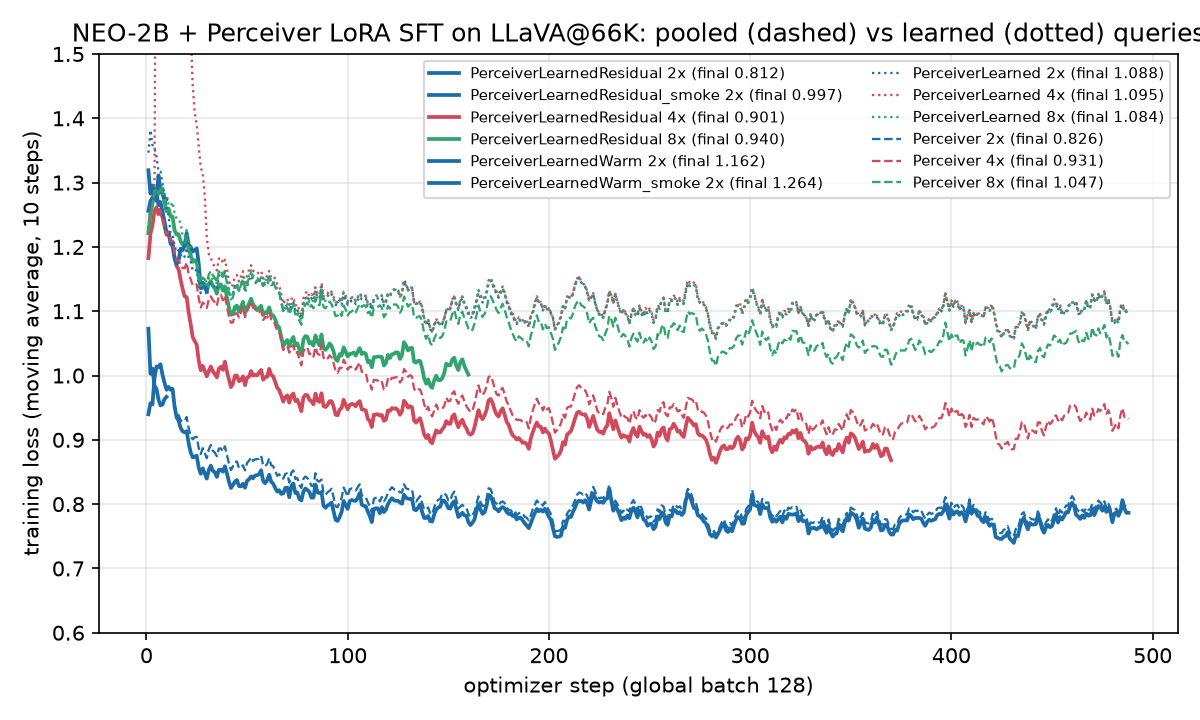
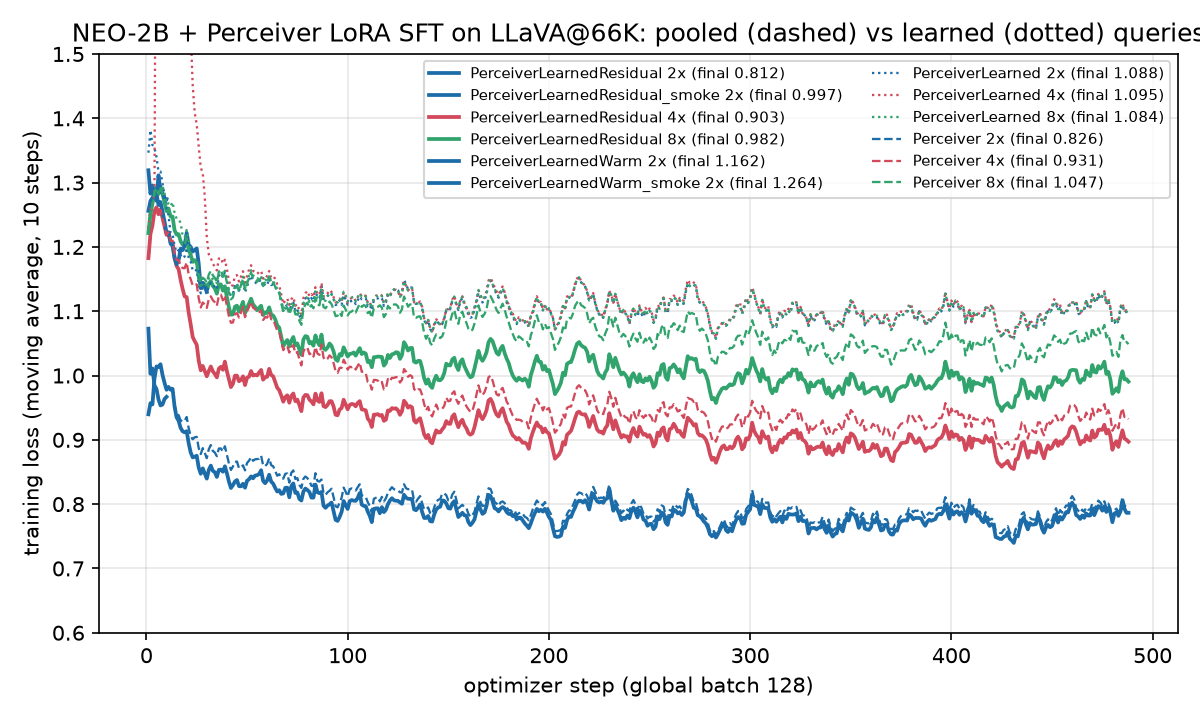
perceiver-learned: e004 DONE (4x row 66.92/1408/44.00/52.03/16.77/16.23/3.6/22.36, +2.3 MMBench +2.0 DocVQA over pooled, loss -0.043 paired); e006 training done (MA-10 0.9905, -0.057 vs pooled 8x), eval pending; e009 planned = pooled at comp lr 1e-3 4x (PerceiverLr1e3 run name + config key); figure 

diff --git a/VLMEvalKit/vlmeval/config.py b/VLMEvalKit/vlmeval/config.py
@@ -2397,7 +2397,8 @@ neo_series.update({
         perceiver_queries=queries,
     )
     for name, queries in (("PerceiverLearnedResidual", "learned_residual"),
-                          ("PerceiverLearnedWarm", "learned"))  # paper-faithful module, warm-started (INIT_FROM)
+                          ("PerceiverLearnedWarm", "learned"),  # paper-faithful module, warm-started (INIT_FROM)
+                          ("PerceiverLr1e3", "pooled"))  # pooled queries, compressor lr 1e-3 (lr-only control, e009)
     for r in (2, 4, 8)
 })
 

diff --git a/research/experiments/perceiver-learned/RESULTS.md b/research/experiments/perceiver-learned/RESULTS.md
@@ -1,14 +1,15 @@
 # Results: perceiver-learned
 
-Generated by research-results from 8 records. Do not edit by hand.
+Generated by research-results from 9 records. Do not edit by hand.
 
-| id | batch | parent | status | sha | gpu_hours | loss_learned_trained | loss_learned_zeros | loss_learned_noise | loss_pooled_trained | loss_pooled_zeros | loss_base_fixed2x | loss_base_fixed2x_zeros | loss_base_learned_init | loss_base_none | learned_output_pairwise_cosine | learned_init_output_pairwise_cosine | learned_attn_entropy_over_logN | pooled_output_pairwise_cosine | pooled_attn_entropy_over_logN | learned_latents_rms_after_training | smoke_loss_steps1to5_mean | smoke_loss_max_steps1to16 | smoke_sec_per_step | resume_step11_loss_delta | final_loss_ma10 | final_loss_ma50 | pooled2x_final_loss_ma10 | train_sec_per_step | train_hours | mmbench | docvqa | pooled2x_mmbench | pooled2x_docvqa | gate_passed | probe_residual_trained | probe_residual_no_latents | probe_residual_fixed | probe_residual_zeros | probe_pooled_trained | probe_delta_trained_minus_no_latents | probe_delta_trained_minus_fixed | probe_delta_trained_minus_pooled | latent_term_rms_over_pooled_query_rms | latents_rms | attn_gate_tanh | mlp_gate_tanh | residual_attn_entropy_over_logN | residual_attn_max_weight | residual_output_cosine_to_fixed_pooling | residual_output_rel_rms_change_from_fixed_pooling | mlp_branch_rms_unit_input | implied_native_token_rms | mme | mmmu | rwqa | textvqa | ocrbench | chartqa | pooled2x_mme | pooled2x_mmmu | pooled2x_rwqa | pooled2x_textvqa | pooled2x_ocrbench | pooled2x_chartqa | warm_native_rms | warm_mean_grid_rms_raw | warm_mean_grid_spatial_dev_rms | warm_scale | warm_n_images | smoke_loss_steps6to10_mean | smoke_loss_steps11to15_mean | smoke_loss_max_steps1to15 | smoke_steps_done | resid_smoke_steps11to15_mean | collapsed2x_steps11to15_mean | chain_submitted | steps_done | sec_per_step | loss_steps1to5_mean | loss_steps6to10_mean | loss_steps11to24_mean | loss_steps25to37_mean | loss_steps1to39_mean | collapsed2x_steps25to37_mean | pooled2x_steps25to37_mean | resid2x_steps25to37_mean | paired_vs_collapsed_steps25to37 | paired_vs_collapsed_sd | paired_vs_pooled_steps25to37 | o_proj_weight_rms_step30 | o_proj_weight_rms_pooled_trained | mlp2_weight_rms_step30 | mlp2_weight_rms_pooled_trained | latents_delta_rms_step30 | loss_warm_trained | loss_warm_zeros | loss_warm_noise | loss_warm_init_trained | paired_warm_minus_zeros | paired_warm_minus_noise | paired_warm_minus_learned | paired_warm_minus_warm_init | warm30_attn_entropy_over_logN | warm30_attn_max_weight | warm30_output_pairwise_cosine | warm30_query_pairwise_cosine | warm30_output_cosine_to_fixed_pooling | warm30_output_rms_over_native_rms | warm_init_attn_entropy_over_logN | warm_init_attn_max_weight | warm_init_output_pairwise_cosine | warm_init_output_cosine_to_fixed_pooling | hypothesis |
-|---|---|---|---|---|---|---|---|---|---|---|---|---|---|---|---|---|---|---|---|---|---|---|---|---|---|---|---|---|---|---|---|---|---|---|---|---|---|---|---|---|---|---|---|---|---|---|---|---|---|---|---|---|---|---|---|---|---|---|---|---|---|---|---|---|---|---|---|---|---|---|---|---|---|---|---|---|---|---|---|---|---|---|---|---|---|---|---|---|---|---|---|---|---|---|---|---|---|---|---|---|---|---|---|---|---|---|---|---|---|---|---|---|---|
-| e001 | b001 |  | done | 94091f4 | 0.1 | 0.9583 | 1.224 | 1.025 | 0.6443 | 1.341 | 0.8225 | 1.431 | 1.22 | 0.7184 | 0.9999 | 0.9953 | 0.9902 | 0.69 | 0.957 | 0.02 |  |  |  |  |  |  |  |  |  |  |  |  |  |  |  |  |  |  |  |  |  |  |  |  |  |  |  |  |  |  |  |  |  |  |  |  |  |  |  |  |  |  |  |  |  |  |  |  |  |  |  |  |  |  |  |  |  |  |  |  |  |  |  |  |  |  |  |  |  |  |  |  |  |  |  |  |  |  |  |  |  |  |  |  |  |  |  |  |  |  |  |  | Tests cause (a) of the direction doc (signal, not optimisation): the LLM under the PerceiverLearned-2x LoRA has |
-| e002 | b002 | e001 | done | 43311d8 | 14.98 |  |  |  |  |  |  |  |  |  |  |  |  |  |  |  | 0.979 | 1.094 | 89 | 0 | 0.7865 | 0.7835 | 0.7948 | 86.9 | 12 | 73.37 | 40 | 74.31 | 37.33 | 1 |  |  |  |  |  |  |  |  |  |  |  |  |  |  |  |  |  |  |  |  |  |  |  |  |  |  |  |  |  |  |  |  |  |  |  |  |  |  |  |  |  |  |  |  |  |  |  |  |  |  |  |  |  |  |  |  |  |  |  |  |  |  |  |  |  |  |  |  |  |  |  |  |  |  |  |  |  |  | Tests causes (a)+(b) together (backlog item 2): a Perceiver whose learned latent queries are a zero-initialised |
-| e003 | b003 | e002 | done | 12a1540 | 2.44 |  |  |  |  |  |  |  |  |  |  |  |  |  |  |  |  |  |  |  |  |  |  |  |  | 73.37 | 40 |  |  |  | 0.635 | 0.6361 | 0.6661 | 1.332 | 0.6443 | -0.001 | -0.0311 | -0.0093 | 0.0023 | 0.0129 | 0.0001 | 0.01 | 0.0255 | 0.928 | 0.946 | 0.33 | 19.4 | 4.66 | 1527 | 47 | 59.22 | 33.42 | 20.7 | 40.24 | 1524 | 46.89 | 57.65 | 32.38 | 20.8 | 40.12 |  |  |  |  |  |  |  |  |  |  |  |  |  |  |  |  |  |  |  |  |  |  |  |  |  |  |  |  |  |  |  |  |  |  |  |  |  |  |  |  |  |  |  |  |  |  |  |  | Follow-up to e002 (cause (b) fixed by construction, gate passed). Two questions. (1) Mechanism: the latents of the |
-| e004 | b004 | e002 | submitted | 12a1540 |  |  |  |  |  |  |  |  |  |  |  |  |  |  |  |  |  |  |  |  |  |  |  |  |  |  |  |  |  |  |  |  |  |  |  |  |  |  |  |  |  |  |  |  |  |  |  |  |  |  |  |  |  |  |  |  |  |  |  |  |  |  |  |  |  |  |  |  |  |  |  |  |  |  |  |  |  |  |  |  |  |  |  |  |  |  |  |  |  |  |  |  |  |  |  |  |  |  |  |  |  |  |  |  |  |  |  |  | Backlog item 4, first half: the fix of e002 (pooled-anchored learned queries, init = fixed pooling) carries to 4x, |
-| e005 | b005 | e003 | done | 99d7de0 | 0.47 |  |  |  |  |  |  |  |  |  |  |  |  |  |  |  | 1.272 |  | 89.5 |  |  |  |  |  |  |  |  |  |  |  |  |  |  |  |  |  |  |  |  |  |  |  |  |  |  |  |  |  |  |  |  |  |  |  |  |  |  |  |  |  | 4.521 | 2.941 | 0.5304 | 1.537 | 256 | 1.277 | 1.236 | 1.509 | 15 | 0.93 | 1.202 | 0 |  |  |  |  |  |  |  |  |  |  |  |  |  |  |  |  |  |  |  |  |  |  |  |  |  |  |  |  |  |  |  |  |  |  |  |  | Backlog item 3, tests cause (b) in isolation on the paper-faithful architecture: the `learned` Perceiver (image-independ |
-| e006 | b006 | e004 | submitted | 503ea57 |  |  |  |  |  |  |  |  |  |  |  |  |  |  |  |  |  |  |  |  |  |  |  |  |  |  |  |  |  |  |  |  |  |  |  |  |  |  |  |  |  |  |  |  |  |  |  |  |  |  |  |  |  |  |  |  |  |  |  |  |  |  |  |  |  |  |  |  |  |  |  |  |  |  |  |  |  |  |  |  |  |  |  |  |  |  |  |  |  |  |  |  |  |  |  |  |  |  |  |  |  |  |  |  |  |  |  |  | Backlog item 4, second half: the e002 fix (pooled-anchored learned queries, init = fixed pooling, compressor lr 1e-3) |
-| e007 | b007 | e005 | done | 503ea57 | 1 |  |  |  |  |  |  |  |  |  |  |  |  |  |  |  |  |  |  |  |  |  |  |  |  |  |  |  |  |  |  |  |  |  |  |  |  |  |  | 4.521 |  |  |  |  |  |  |  |  |  |  |  |  |  |  |  |  |  |  |  |  |  |  |  |  |  |  |  |  |  |  |  | 0 | 39 | 87.5 | 1.282 | 1.161 | 1.192 | 1.143 | 1.182 | 1.147 | 0.8846 | 0.8525 | -0.0036 | 0.0073 | 0.2587 | 0.00483 | 0.01277 | 0.00469 | 0.0064 | 0.0038 |  |  |  |  |  |  |  |  |  |  |  |  |  |  |  |  |  |  | Closes the gap e005 left open. The e005 smoke stopped at step 15 with the loss flat at 1.24, but with `o_proj` and `mlp. |
-| e008 | b008 | e007 | done | d25f75d | 0.09 | 0.9583 | 1.224 |  |  |  |  |  |  |  | 0.9999 |  | 0.9902 |  |  |  |  |  |  |  |  |  |  |  |  |  |  |  |  |  |  |  |  |  |  |  |  |  |  |  |  |  |  |  |  |  |  |  |  |  |  |  |  |  |  |  |  |  |  |  |  |  |  |  |  |  |  |  |  |  |  |  |  |  |  |  |  |  |  |  |  |  |  |  |  |  |  |  |  |  | 1.009 | 1.338 | 1.079 | 1.159 | -0.3287 | -0.0703 | 0.0508 | -0.1501 | 0.108 | 0.7413 | 0.9938 | 0.9768 | 0.1773 | 1.008 | 0.9344 | 0.007 | 0.9768 | 0.7602 | Measurement behind the e007 interpretation. The warm-started paper-faithful `learned` module at step 30 emits, like the |
+| id | batch | parent | status | sha | gpu_hours | loss_learned_trained | loss_learned_zeros | loss_learned_noise | loss_pooled_trained | loss_pooled_zeros | loss_base_fixed2x | loss_base_fixed2x_zeros | loss_base_learned_init | loss_base_none | learned_output_pairwise_cosine | learned_init_output_pairwise_cosine | learned_attn_entropy_over_logN | pooled_output_pairwise_cosine | pooled_attn_entropy_over_logN | learned_latents_rms_after_training | smoke_loss_steps1to5_mean | smoke_loss_max_steps1to16 | smoke_sec_per_step | resume_step11_loss_delta | final_loss_ma10 | final_loss_ma50 | pooled2x_final_loss_ma10 | train_sec_per_step | train_hours | mmbench | docvqa | pooled2x_mmbench | pooled2x_docvqa | gate_passed | probe_residual_trained | probe_residual_no_latents | probe_residual_fixed | probe_residual_zeros | probe_pooled_trained | probe_delta_trained_minus_no_latents | probe_delta_trained_minus_fixed | probe_delta_trained_minus_pooled | latent_term_rms_over_pooled_query_rms | latents_rms | attn_gate_tanh | mlp_gate_tanh | residual_attn_entropy_over_logN | residual_attn_max_weight | residual_output_cosine_to_fixed_pooling | residual_output_rel_rms_change_from_fixed_pooling | mlp_branch_rms_unit_input | implied_native_token_rms | mme | mmmu | rwqa | textvqa | ocrbench | chartqa | pooled2x_mme | pooled2x_mmmu | pooled2x_rwqa | pooled2x_textvqa | pooled2x_ocrbench | pooled2x_chartqa | steps_done | sec_per_step | pooled4x_final_loss_ma10 | collapsed4x_final_loss_ma10 | paired_vs_pooled4x_steps1to488 | paired_vs_pooled4x_steps326to488 | paired_vs_pooled4x_sd_steps326to488 | paired_vs_collapsed4x_steps1to488 | pooled4x_mmbench | pooled4x_mme | pooled4x_mmmu | pooled4x_rwqa | pooled4x_textvqa | pooled4x_docvqa | pooled4x_ocrbench | pooled4x_chartqa | item4_criterion_met | warm_native_rms | warm_mean_grid_rms_raw | warm_mean_grid_spatial_dev_rms | warm_scale | warm_n_images | smoke_loss_steps6to10_mean | smoke_loss_steps11to15_mean | smoke_loss_max_steps1to15 | smoke_steps_done | resid_smoke_steps11to15_mean | collapsed2x_steps11to15_mean | chain_submitted | pooled8x_final_loss_ma10 | collapsed8x_final_loss_ma10 | paired_vs_pooled8x_steps1to200 | paired_vs_pooled8x_steps1to488 | paired_vs_pooled8x_steps326to488 | paired_vs_pooled8x_sd_steps326to488 | paired_vs_collapsed8x_steps1to488 | loss_steps1to5_mean | loss_steps6to10_mean | loss_steps11to24_mean | loss_steps25to37_mean | loss_steps1to39_mean | collapsed2x_steps25to37_mean | pooled2x_steps25to37_mean | resid2x_steps25to37_mean | paired_vs_collapsed_steps25to37 | paired_vs_collapsed_sd | paired_vs_pooled_steps25to37 | o_proj_weight_rms_step30 | o_proj_weight_rms_pooled_trained | mlp2_weight_rms_step30 | mlp2_weight_rms_pooled_trained | latents_delta_rms_step30 | loss_warm_trained | loss_warm_zeros | loss_warm_noise | loss_warm_init_trained | paired_warm_minus_zeros | paired_warm_minus_noise | paired_warm_minus_learned | paired_warm_minus_warm_init | warm30_attn_entropy_over_logN | warm30_attn_max_weight | warm30_output_pairwise_cosine | warm30_query_pairwise_cosine | warm30_output_cosine_to_fixed_pooling | warm30_output_rms_over_native_rms | warm_init_attn_entropy_over_logN | warm_init_attn_max_weight | warm_init_output_pairwise_cosine | warm_init_output_cosine_to_fixed_pooling | hypothesis |
+|---|---|---|---|---|---|---|---|---|---|---|---|---|---|---|---|---|---|---|---|---|---|---|---|---|---|---|---|---|---|---|---|---|---|---|---|---|---|---|---|---|---|---|---|---|---|---|---|---|---|---|---|---|---|---|---|---|---|---|---|---|---|---|---|---|---|---|---|---|---|---|---|---|---|---|---|---|---|---|---|---|---|---|---|---|---|---|---|---|---|---|---|---|---|---|---|---|---|---|---|---|---|---|---|---|---|---|---|---|---|---|---|---|---|---|---|---|---|---|---|---|---|---|---|---|---|---|---|---|---|---|---|---|---|---|---|
+| e001 | b001 |  | done | 94091f4 | 0.1 | 0.9583 | 1.224 | 1.025 | 0.6443 | 1.341 | 0.8225 | 1.431 | 1.22 | 0.7184 | 0.9999 | 0.9953 | 0.9902 | 0.69 | 0.957 | 0.02 |  |  |  |  |  |  |  |  |  |  |  |  |  |  |  |  |  |  |  |  |  |  |  |  |  |  |  |  |  |  |  |  |  |  |  |  |  |  |  |  |  |  |  |  |  |  |  |  |  |  |  |  |  |  |  |  |  |  |  |  |  |  |  |  |  |  |  |  |  |  |  |  |  |  |  |  |  |  |  |  |  |  |  |  |  |  |  |  |  |  |  |  |  |  |  |  |  |  |  |  |  |  |  |  |  |  |  |  |  |  |  |  |  |  | Tests cause (a) of the direction doc (signal, not optimisation): the LLM under the PerceiverLearned-2x LoRA has |
+| e002 | b002 | e001 | done | 43311d8 | 14.98 |  |  |  |  |  |  |  |  |  |  |  |  |  |  |  | 0.979 | 1.094 | 89 | 0 | 0.7865 | 0.7835 | 0.7948 | 86.9 | 12 | 73.37 | 40 | 74.31 | 37.33 | 1 |  |  |  |  |  |  |  |  |  |  |  |  |  |  |  |  |  |  |  |  |  |  |  |  |  |  |  |  |  |  |  |  |  |  |  |  |  |  |  |  |  |  |  |  |  |  |  |  |  |  |  |  |  |  |  |  |  |  |  |  |  |  |  |  |  |  |  |  |  |  |  |  |  |  |  |  |  |  |  |  |  |  |  |  |  |  |  |  |  |  |  |  |  |  |  |  |  |  |  |  | Tests causes (a)+(b) together (backlog item 2): a Perceiver whose learned latent queries are a zero-initialised |
+| e003 | b003 | e002 | done | 12a1540 | 2.44 |  |  |  |  |  |  |  |  |  |  |  |  |  |  |  |  |  |  |  |  |  |  |  |  | 73.37 | 40 |  |  |  | 0.635 | 0.6361 | 0.6661 | 1.332 | 0.6443 | -0.001 | -0.0311 | -0.0093 | 0.0023 | 0.0129 | 0.0001 | 0.01 | 0.0255 | 0.928 | 0.946 | 0.33 | 19.4 | 4.66 | 1527 | 47 | 59.22 | 33.42 | 20.7 | 40.24 | 1524 | 46.89 | 57.65 | 32.38 | 20.8 | 40.12 |  |  |  |  |  |  |  |  |  |  |  |  |  |  |  |  |  |  |  |  |  |  |  |  |  |  |  |  |  |  |  |  |  |  |  |  |  |  |  |  |  |  |  |  |  |  |  |  |  |  |  |  |  |  |  |  |  |  |  |  |  |  |  |  |  |  |  |  |  |  | Follow-up to e002 (cause (b) fixed by construction, gate passed). Two questions. (1) Mechanism: the latents of the |
+| e004 | b004 | e002 | done | 12a1540 | 16.81 |  |  |  |  |  |  |  |  |  |  |  |  |  |  |  |  |  |  |  | 0.897 | 0.9022 |  |  | 12.25 | 66.92 | 16.23 |  |  |  |  |  |  |  |  |  |  |  |  |  |  |  |  |  |  |  |  |  | 1408 | 44 | 52.03 | 16.77 | 3.6 | 22.36 |  |  |  |  |  |  | 488 | 87.2 | 0.9323 | 1.096 | -0.0433 | -0.0333 | 0.0105 | -0.2389 | 64.6 | 1371 | 44.67 | 51.37 | 15.63 | 14.27 | 2.8 | 21.52 | 0 |  |  |  |  |  |  |  |  |  |  |  |  |  |  |  |  |  |  |  |  |  |  |  |  |  |  |  |  |  |  |  |  |  |  |  |  |  |  |  |  |  |  |  |  |  |  |  |  |  |  |  |  |  | Backlog item 4, first half: the fix of e002 (pooled-anchored learned queries, init = fixed pooling) carries to 4x, |
+| e005 | b005 | e003 | done | 99d7de0 | 0.47 |  |  |  |  |  |  |  |  |  |  |  |  |  |  |  | 1.272 |  | 89.5 |  |  |  |  |  |  |  |  |  |  |  |  |  |  |  |  |  |  |  |  |  |  |  |  |  |  |  |  |  |  |  |  |  |  |  |  |  |  |  |  |  |  |  |  |  |  |  |  |  |  |  |  |  |  |  |  |  |  | 4.521 | 2.941 | 0.5304 | 1.537 | 256 | 1.277 | 1.236 | 1.509 | 15 | 0.93 | 1.202 | 0 |  |  |  |  |  |  |  |  |  |  |  |  |  |  |  |  |  |  |  |  |  |  |  |  |  |  |  |  |  |  |  |  |  |  |  |  |  |  |  |  |  | Backlog item 3, tests cause (b) in isolation on the paper-faithful architecture: the `learned` Perceiver (image-independ |
+| e006 | b006 | e004 | submitted | 503ea57 | 12.25 |  |  |  |  |  |  |  |  |  |  |  |  |  |  |  |  |  |  |  | 0.9905 | 0.9957 |  |  | 12.25 |  |  |  |  |  |  |  |  |  |  |  |  |  |  |  |  |  |  |  |  |  |  |  |  |  |  |  |  |  |  |  |  |  |  |  | 488 | 87.3 |  |  |  |  |  |  |  |  |  |  |  |  |  |  |  |  |  |  |  |  |  |  |  |  |  |  |  | 1.049 | 1.094 | -0.0521 | -0.0568 | -0.0587 | 0.0113 | -0.0904 |  |  |  |  |  |  |  |  |  |  |  |  |  |  |  |  |  |  |  |  |  |  |  |  |  |  |  |  |  |  |  |  |  |  | Backlog item 4, second half: the e002 fix (pooled-anchored learned queries, init = fixed pooling, compressor lr 1e-3) |
+| e007 | b007 | e005 | done | 503ea57 | 1 |  |  |  |  |  |  |  |  |  |  |  |  |  |  |  |  |  |  |  |  |  |  |  |  |  |  |  |  |  |  |  |  |  |  |  |  |  |  | 4.521 |  |  |  |  |  |  |  |  |  |  |  |  |  |  |  |  |  |  |  |  | 39 | 87.5 |  |  |  |  |  |  |  |  |  |  |  |  |  |  |  |  |  |  |  |  |  |  |  |  |  |  | 0 |  |  |  |  |  |  |  | 1.282 | 1.161 | 1.192 | 1.143 | 1.182 | 1.147 | 0.8846 | 0.8525 | -0.0036 | 0.0073 | 0.2587 | 0.00483 | 0.01277 | 0.00469 | 0.0064 | 0.0038 |  |  |  |  |  |  |  |  |  |  |  |  |  |  |  |  |  |  | Closes the gap e005 left open. The e005 smoke stopped at step 15 with the loss flat at 1.24, but with `o_proj` and `mlp. |
+| e008 | b008 | e007 | done | d25f75d | 0.09 | 0.9583 | 1.224 |  |  |  |  |  |  |  | 0.9999 |  | 0.9902 |  |  |  |  |  |  |  |  |  |  |  |  |  |  |  |  |  |  |  |  |  |  |  |  |  |  |  |  |  |  |  |  |  |  |  |  |  |  |  |  |  |  |  |  |  |  |  |  |  |  |  |  |  |  |  |  |  |  |  |  |  |  |  |  |  |  |  |  |  |  |  |  |  |  |  |  |  |  |  |  |  |  |  |  |  |  |  |  |  |  |  |  |  |  |  |  |  |  |  | 1.009 | 1.338 | 1.079 | 1.159 | -0.3287 | -0.0703 | 0.0508 | -0.1501 | 0.108 | 0.7413 | 0.9938 | 0.9768 | 0.1773 | 1.008 | 0.9344 | 0.007 | 0.9768 | 0.7602 | Measurement behind the e007 interpretation. The warm-started paper-faithful `learned` module at step 30 emits, like the |
+| e009 | b009 | e004 | planned |  |  |  |  |  |  |  |  |  |  |  |  |  |  |  |  |  |  |  |  |  |  |  |  |  |  |  |  |  |  |  |  |  |  |  |  |  |  |  |  |  |  |  |  |  |  |  |  |  |  |  |  |  |  |  |  |  |  |  |  |  |  |  |  |  |  |  |  |  |  |  |  |  |  |  |  |  |  |  |  |  |  |  |  |  |  |  |  |  |  |  |  |  |  |  |  |  |  |  |  |  |  |  |  |  |  |  |  |  |  |  |  |  |  |  |  |  |  |  |  |  |  |  |  |  |  |  |  |  |  |  | The lr-only control for the learned_residual gains. e003 measured that the trained learned_residual 2x module is fixed p |

diff --git a/research/experiments/perceiver-learned/e004.md b/research/experiments/perceiver-learned/e004.md
@@ -3,7 +3,7 @@ id: e004
 direction: perceiver-learned
 batch: b004
 parent: e002
-status: submitted
+status: done
 created: 2026-11-09T18:30:00
 sha: 12a1540
 cluster: ascend
@@ -17,8 +17,13 @@ config:
   run_name: NEO_continue_SFT_LLaVA_OV_llava66k_PerceiverLearnedResidual_4x
   config_key: NEO-2B-SFT-OV-LLaVA-llava66k-PerceiverLearnedResidual-4x
   eval: all 8 benchmarks (DATASETS override, one array)
-metrics: {}
-gpu_hours: null
+metrics: {steps_done: 488, sec_per_step: 87.2, train_hours: 12.25, final_loss_ma10: 0.8970, final_loss_ma50: 0.9022,
+  pooled4x_final_loss_ma10: 0.9323, collapsed4x_final_loss_ma10: 1.0963, paired_vs_pooled4x_steps1to488: -0.0433,
+  paired_vs_pooled4x_steps326to488: -0.0333, paired_vs_pooled4x_sd_steps326to488: 0.0105, paired_vs_collapsed4x_steps1to488: -0.2389,
+  mmbench: 66.92, mme: 1408.42, mmmu: 44.00, rwqa: 52.03, textvqa: 16.77, docvqa: 16.23, ocrbench: 3.6, chartqa: 22.36,
+  pooled4x_mmbench: 64.60, pooled4x_mme: 1371.42, pooled4x_mmmu: 44.67, pooled4x_rwqa: 51.37, pooled4x_textvqa: 15.63,
+  pooled4x_docvqa: 14.27, pooled4x_ocrbench: 2.80, pooled4x_chartqa: 21.52, item4_criterion_met: 0}
+gpu_hours: 16.81
 ---
 ## Hypothesis
 Backlog item 4, first half: the fix of e002 (pooled-anchored learned queries, init = fixed pooling) carries to 4x,
@@ -110,8 +115,60 @@ the "0.005-0.03 nats below pooled" prediction stays a MISS on the low side (more
 Seg3 at step 370 (2026-11-10 03:40 wake, 1:18 elapsed): steps 331-370 mean 0.886 vs pooled 4x 0.919 (paired -0.033, sd
 0.009); steps 1-370 paired -0.047. Checkpoint-370 written. Figure regenerated.
 
+### Training complete + full eval (2026-11-10 13:30 wake)
+Seg3 8453617 TIMEOUT at 4:00:24 as planned: steps 321-483 on a0153, last save checkpoint-480 (3 steps lost). Seg4 8453618
+(a0153, 14:30 wall, 0.24 GPU-h): resumed from checkpoint-480, steps 481-483 bit-identical to seg3 (0.8939 / 0.9333 / 0.8321),
+finished step 488 and wrote the final `perceiver.bin` + adapter + `trainer_state.json` (488 loss entries). Training cost
+4.00 + 4.00 + 4.01 + 0.24 = 12.25 GPU-h at 87.2 s/step. Every chain boundary (160, 320, 480) resumed bit-identically.
+
+Loss (figure `figures/loss_curves.png`, data `figures/loss_curves.json`; paired with the pooled 4x run, same data order):
+
+| window | learned_residual 4x (this) | pooled 4x | learned 4x (collapsed) | paired this - pooled (sd) |
+|---|---|---|---|---|
+| MA-10 at 488 | 0.8970 | 0.9323 | 1.0963 | -0.0353 (0.020) |
+| MA-50 at 488 | 0.9022 | 0.9372 | 1.1069 | -0.0351 (0.013) |
+| steps 1-200 | 0.9717 | 1.0291 | 1.2635 | -0.0575 (0.032) |
+| steps 326-488 | 0.8928 | 0.9261 | 1.0961 | -0.0333 (0.011) |
+| steps 1-488 | 0.9290 | 0.9723 | 1.1679 | -0.0433 (0.025) |
+
+Eval array 8453619_[0-7] (nextgen, started 06:39 right after seg4, all COMPLETED exit 0, result file present for every task;
+walls 0:32 / 0:18 / 0:12 / 0:08 / 0:54 / 1:37 / 0:18 / 0:33 = 4.56 GPU-h). Full 4x row (LLaVA@66K, 488 steps; pooled row from
+the tex "+ (Perceiver) LLaVA@66K, FP" under 4x; collapsed row from the direction doc, blanks = never evaluated):
+
+| 4x | MMBench | MME | MMMU | RWQA | TextVQA | DocVQA | OCRBench | ChartQA |
+|---|---|---|---|---|---|---|---|---|
+| Perceiver learned_residual (this, comp lr 1e-3) | 66.92 | 1408.4 | 44.00 | 52.03 | 16.77 | 16.23 | 3.6 | 22.36 |
+| Perceiver pooled (comp lr 2e-5, tex row) | 64.60 | 1371.4 | 44.67 | 51.37 | 15.63 | 14.27 | 2.8 | 21.52 |
+| delta (this - pooled) | +2.32 | +37.0 | -0.67 | +0.66 | +1.14 | +1.96 | +0.8 | +0.84 |
+| Perceiver learned (paper-faithful, collapsed) | 24.05 | 858 | | | | 7.29 | 1.7 | |
+| 2x reference: learned_residual / pooled | 73.37 / 74.31 | 1527 / 1524 | 47.00 / 46.89 | 59.22 / 57.65 | 33.42 / 32.38 | 40.00 / 37.33 | 20.7 / 20.8 | 40.24 / 40.12 |
+
+MME breakdown: perception 1408.4 (pooled 1371.4), reasoning 407.5, OCR sub-score 170. MMMU dev 48.0 / validation 44.0 (the
+table uses validation). Item-count noise: MMBench 1 item = 0.086 pt (27 items), MMMU 1 item = 0.11 pt (6 items), RWQA 0.13 pt
+(5 items), MME +37 is about 10 image-pairs of 1200.
+
+Prediction scores: MA-10 at 488 in 0.88-0.95: HIT (0.897). Paired below pooled by 0.005-0.03 nats over the run: MISS, more
+gain than predicted (-0.043; -0.033 steady over the last 163 steps, sd 0.011). MMBench 62.5-66.5: MISS by 0.4 on the high
+side (66.92). DocVQA 13-19: HIT (16.23). Within 2 pts of pooled on MMBench and within 5 on DocVQA (item-4 criterion): MISS on
+the letter (MMBench +2.32), but in the favourable direction; DocVQA +1.96 inside. MME 1330-1420: HIT (1408). OCRBench 2-8:
+HIT (3.6). Throughput 80-87 s/step: MISS by 0.2 (87.2); seg4 0.2-1 h: HIT (0.24). Cost training 12.0-12.5: HIT (12.25); eval
+about 5: 4.56; total about 17.5: 16.81. 7 HIT / 5 MISS, all misses in the direction of a larger gain over pooled or marginal.
+
 ## Interpretation
-(pending)
+The e002 fix carries to 4x: no collapse (loss 0.897 vs the collapsed 1.096, MMBench 66.9 vs 24.1), and the row is pooled-like
+on every benchmark. Unlike 2x, where learned_residual and pooled were the same row within noise, at 4x learned_residual is
+above pooled on 7 of 8 benchmarks (+2.3 MMBench, +37 MME, +2.0 DocVQA, +1.1 TextVQA, +0.8 OCRBench, +0.8 ChartQA, +0.7 RWQA;
+MMMU -0.7 = 6 items) and the paired loss gap grew from -0.012 (2x) to -0.043 (4x, steady -0.033 with sd 0.011 over the last 163
+steps), so the gain is real and grows with compression. What produces it is not settled by this run: e003 showed that at 2x
+the latents are inert and the whole departure from fixed pooling is the per-token MLP branch, which moves because the compressor
+lr is 1e-3 instead of the pooled row's 2e-5. The 4x gain is therefore most likely a learning-rate effect on the pooled
+architecture (the MLP branch has more to correct when each token summarises 4 patches), not a learned-query effect; the exact
+control is a `pooled` run at compressor lr 1e-3 (e009). For `tab:training-based` the 4x learned-query Perceiver row is
+66.92 / 1408.4 / 44.00 / 52.03 / 16.77 / 16.23 / 3.6 / 22.36, with the same footnote as the 2x row (pooled-anchored queries,
+latents inert at 2x by e003; not re-probed at 4x).
 
 ## Next
-(pending)
+8x row (e006) finished training in the same wake; its eval array is submitted. e009 = the lr-only control at 4x (`pooled`
+queries, compressor lr 1e-3, gate eval MMBench + DocVQA): if it reproduces this row's +2.3 / +2.0 over the tex pooled row, the
+"learned queries" rows are a learning-rate result and the table should say so; if it does not, the latents or the gated
+attention branch matter at 4x and a 4x probe (`perceiver_probe.py --ratio 4`) is the follow-up.

diff --git a/research/experiments/perceiver-learned/e009.md b/research/experiments/perceiver-learned/e009.md
@@ -1,0 +1,71 @@
+---
+id: e009
+direction: perceiver-learned
+batch: b009
+parent: e004
+status: planned
+created: 2026-11-10T13:35:00
+sha: null
+cluster: ascend
+jobs: []
+config:
+  tier: smoke tier 2 (debug-nextgen, 20 min, llava_665k%1, SUFFIX=_smoke), training tier 3 (nextgen, chain of 4 x 4 h segments, afterany, seg1 afterany the smoke), gate eval tier 3 (appended at a later wake, afterok seg4)
+  queries: pooled
+  ratio: 4x
+  recipe: SFT_perceiver.sh unchanged (Paranioar/NEO1_0-2B-SFT, llava_665k%10, LoRA lr 2e-5, global batch 128, 488 steps, warmup 10)
+  compressor_lr: 1e-3 (the tex pooled 4x row used 2e-5; e004 learned_residual 4x used 1e-3)
+  run_name: NEO_continue_SFT_LLaVA_OV_llava66k_PerceiverLr1e3_4x
+  config_key: NEO-2B-SFT-OV-LLaVA-llava66k-PerceiverLr1e3-4x
+  eval: gate (MMBench_DEV_EN + DocVQA_VAL)
+metrics: {}
+gpu_hours: null
+---
+## Hypothesis
+The lr-only control for the learned_residual gains. e003 measured that the trained learned_residual 2x module is fixed pooling
+plus a per-token MLP branch (latents 0.2% of the query, attention gate 1e-4, MLP gate 0.010), and attributed the e002 gain
+over the pooled row to the compressor lr (1e-3 vs the pooled row's 2e-5), not to the learned queries. e004 then found the
+gain growing with the ratio (4x: +2.3 MMBench, +2.0 DocVQA, +37 MME, loss -0.043 paired), and e006 the loss gap growing
+again at 8x (-0.057). The pooled architecture has the same MLP branch and gates, so if the e003 attribution is right, `pooled`
+queries trained at compressor lr 1e-3 reproduce the learned_residual 4x run (loss curve and gate scores) and the "learned
+queries" rows of `tab:training-based` are a learning-rate result. 4x is chosen over 2x because the gain to reproduce is
+largest there relative to item noise (at 2x the two rows are the same within noise, so the control could not separate them).
+
+## Prediction (before submission)
+- Smoke (llava_665k%1, 20 min, step-5 check): steps 1-5 mean in 0.95-1.15 (confidence 0.6; the 2x learned_residual smoke on
+  the same data gave 0.979, 4x losses run about 0.05 higher early), no loss above 1.3 and no spike (0.65). Step 1 equals the
+  pooled-4x real run's step 1 only if the data order matches, which it does not (%1 vs %10), so no bit-identity check.
+- Training (488 steps): MA-10 at 488 in 0.88-0.92 (0.65; learned_residual 4x 0.897, pooled 4x 0.932). Paired vs the
+  learned_residual 4x run over steps 1-488 within +/-0.010 nats (0.55); paired vs the pooled 4x run below -0.025 (0.65).
+- Gate: MMBench 65.5-68.5 (0.6), DocVQA 14.5-18.0 (0.6). Reproduces at least half of e004's gain over the tex pooled row:
+  MMBench >= 65.8 (+1.2) and DocVQA >= 15.3 (+1.0) (0.6). If instead the latents or the gated attention matter at 4x, MMBench
+  <= 65.0 and DocVQA <= 15.0 (0.25).
+- Throughput 86-89 s/step (0.7; pooled and learned_residual have the same token count); seg4 under 30 min (0.6).
+- Cost: smoke 0.33 GPU-h, training 12.25 (4 x 4 h minus the idle part of seg4), gate eval about 2.2 (MMBench 0.54 + DocVQA
+  1.62 at 4x, e004); total about 14.8 GPU-h.
+
+## Change
+- `SFT_perceiver.sh`: `QUERIES=pooled` with a user-set `COMP_LR` other than 2e-5 gets run name `PerceiverLr<lr without . and ->`
+  (`PerceiverLr1e3` for 1e-3), so the original `Perceiver_{2,4,8}x` runs (final, read-only) are never resumed or overwritten; the
+  default pooled / learned / learned_residual names and lrs are unchanged (checked by evaluating the case block for the five
+  combinations on the desktop, `bash -n` clean). `config.py`: `NEO-2B-SFT-OV-LLaVA-llava66k-PerceiverLr1e3-{2,4,8}x` (queries
+  `pooled`) added to the direction's block. No change to `perceiver.py`, the trainer, or `flops.py` (same module and token
+  count as the pooled rows).
+- Pre-submit check: the smoke below is the exact training command with `DATASETS=llava_665k%1 SUFFIX=_smoke` (tier 2); the
+  training code path is the one the pooled rows and e002 already ran (`--perceiver_queries pooled --compressor_learning_rate 1e-3`).
+  A wrong run name is a no-op by construction: the script exits 0 if the resolved output dir already holds a final perceiver.bin.
+- Jobs, all from `$WT/VLMEvalKit/vlmeval/VLMTrainKit` on the OSC checkout at the sha above, env `RATIO=4 COMP_LR=1e-3 REPO=$WT`,
+  `--export=ALL`: smoke `plp4x_smoke` (debug-nextgen, `--time=0:20:00`, plus `DATASETS=llava_665k%1 SUFFIX=_smoke`, output dir
+  `..._PerceiverLr1e3_4x_smoke`); chain `plp4x_seg1` (`afterany:<smoke>`, nextgen, `--time=4:00:00`) -> seg2 -> seg3 -> seg4
+  (`afterany` on the previous). The gate eval (MMBench + DocVQA, `afterok:seg4`) is appended at a later wake (in-flight cap).
+  Output dir `$SCRATCH/VTC-Native-Eval-ckpts/output/NEO_continue_SFT_LLaVA_OV_llava66k_PerceiverLr1e3_4x` (absent at submission).
+- Abort rule: if the smoke's steps 1-5 mean is above 1.3 or the log shows a spike, scancel the chain at the next wake and diagnose
+  (the chain's seg1 starts at most a nextgen queue wait after the smoke ends, so at most one segment's load time is at risk).
+
+## Outcome
+(pending)
+
+## Interpretation
+(pending)
+
+## Next
+(pending)

diff --git a/research/experiments/perceiver-learned/e006.md b/research/experiments/perceiver-learned/e006.md
@@ -17,8 +17,11 @@ config:
   run_name: NEO_continue_SFT_LLaVA_OV_llava66k_PerceiverLearnedResidual_8x
   config_key: NEO-2B-SFT-OV-LLaVA-llava66k-PerceiverLearnedResidual-8x
   eval: all 8 benchmarks (DATASETS override, one array)
-metrics: {}
-gpu_hours: null
+metrics: {steps_done: 488, sec_per_step: 87.3, train_hours: 12.25, final_loss_ma10: 0.9905, final_loss_ma50: 0.9957,
+  pooled8x_final_loss_ma10: 1.0488, collapsed8x_final_loss_ma10: 1.0939, paired_vs_pooled8x_steps1to200: -0.0521,
+  paired_vs_pooled8x_steps1to488: -0.0568, paired_vs_pooled8x_steps326to488: -0.0587, paired_vs_pooled8x_sd_steps326to488: 0.0113,
+  paired_vs_collapsed8x_steps1to488: -0.0904}
+gpu_hours: 12.25
 ---
 ## Hypothesis
 Backlog item 4, second half: the e002 fix (pooled-anchored learned queries, init = fixed pooling, compressor lr 1e-3)
@@ -96,8 +99,42 @@ The gap keeps widening (-0.013 at step 48, -0.044 at 130, -0.049 at 160; steady 
 larger than the 4x run at the same point (-0.062 over 1-170) and above the 4x run's settled -0.033: the "0.03-0.10 nats
 below pooled 8x over steps 1-200" prediction will HIT unless the next 40 steps reverse. Figure regenerated.
 
+### Training complete (2026-11-10 13:30 wake)
+Seg2 8466638 TIMEOUT at 4:00:03 (a0237, steps 161-323, checkpoint-320, 3 steps lost). Seg3 8471019 (a0237, started 07:26,
+queue wait 0 min) resumed from checkpoint-320: steps 321-323 bit-identical to seg2 (1.101 / 0.9393 / 0.9406), TIMEOUT at
+4:00:17 at step 484 (checkpoint-480, 4 steps lost). Seg4 8472979 (a0120, 15:03 wall, 0.25 GPU-h) resumed from checkpoint-480:
+steps 481-484 bit-identical to seg3 (0.9504 / 1.0226 / 0.9351 / 1.1605), finished step 488, wrote the final `perceiver.bin` +
+adapter + `trainer_state.json` (488 loss entries). Training cost 4.00 x 3 + 0.25 = 12.25 GPU-h at 87.3 s/step. Every chain
+boundary (160, 320, 480) resumed bit-identically.
+
+Loss (figure `figures/loss_curves.png`, data `figures/loss_curves.json`; paired with the pooled 8x run, same data order):
+
+| window | learned_residual 8x (this) | pooled 8x | learned 8x (collapsed) | paired this - pooled (sd) |
+|---|---|---|---|---|
+| MA-10 at 488 | 0.9905 | 1.0488 | 1.0939 | -0.0583 (0.015) |
+| MA-50 at 488 | 0.9957 | 1.0551 | 1.1051 | -0.0594 (0.012) |
+| steps 1-200 | 1.0640 | 1.1162 | 1.1318 | -0.0521 (0.026) |
+| steps 326-488 | 0.9859 | 1.0446 | 1.0945 | -0.0587 (0.011) |
+| steps 1-488 | 1.0224 | 1.0792 | 1.1129 | -0.0568 (0.019) |
+
+Training-side prediction scores: throughput 84-89 s/step: HIT (87.3); seg4 under 40 min: HIT (15 min). MA-10 at 488 in
+0.96-1.04: HIT (0.9905). Paired below pooled 8x by 0.03-0.10 over steps 1-200: HIT (-0.052). The gap ends at -0.059 steady
+(sd 0.011 over the last 163 steps): 2x -0.012, 4x -0.033, 8x -0.059, the gap to the pooled run grows monotonically with
+the ratio. Note the pooled 8x run itself is only 0.045 nats below the collapsed learned 8x run; learned_residual 8x is 0.10
+below it. Benchmark predictions are scored once the eval array (submitted this wake, see below) finishes.
+
+Eval array 8453619-style submission at 13:35 (ids in `jobs`): `MODELS=NEO-2B-SFT-OV-LLaVA-llava66k-PerceiverLearnedResidual-8x
+DATASETS="MMBench_DEV_EN MME MMMU_DEV_VAL RealWorldQA TextVQA_VAL DocVQA_VAL OCRBench ChartQA_TEST" REPO=$WT sbatch --export=ALL
+--job-name=plr8x_eval --array=0-7 --time=3:00:00 scripts/eval_table2.sbatch` from the OSC checkout at d25f75d (the eval script
+and config key are unchanged since; the 4x array ran the identical command, which is the pre-submit check). Logs
+`logs/plr8x_eval_<id>_<i>.log`; check for the result file of every task, not the exit code (e003 task 2).
+
 ## Interpretation
-(pending)
+(training part) The e002 fix carries to 8x without collapse, and the loss gain over the pooled architecture at lr 2e-5 is the
+largest of the three ratios (-0.059 nats, vs -0.033 at 4x and -0.012 at 2x). Together with e004, the loss gap scales with the
+compression ratio, which is what the e003 mechanism predicts (the per-token MLP branch has more to correct the more patches each
+output token summarises); whether the gain is the latents or the lr is e009's question. Benchmark interpretation pending the eval.
 
 ## Next
-(pending)
+Eval array in flight (8 tasks, about 4.5 GPU-h). Then the 8x row completes `tab:training-based`'s Perceiver block at all three
+ratios; e009 (pooled at lr 1e-3, 4x) decides how the rows are labelled.

diff --git a/research/directions/perceiver-learned.md b/research/directions/perceiver-learned.md
@@ -8,7 +8,7 @@ cluster: ascend
 status: active
 wake: on_jobs
 budget_gpu_hours: 100
-spent_gpu_hours: 32.6
+spent_gpu_hours: 48.15
 max_jobs_in_flight: 6
 jobs:
 - 8472979
@@ -46,13 +46,13 @@ jobs_archived:
 - 8453615
 - 8461970
 - 8461971
-last_wake: '2026-11-10T03:40:00-05:00'
+last_wake: '2026-11-10T03:40:01-05:00'
 next_id: 9
 model: claude-fable-5-1
 effort: high
 max_turns: 120
 timeout_minutes: 60
-wakes: 11
+wakes: 12
 ---
 # Why does the learned-query Perceiver collapse, and what fixes it?
 
